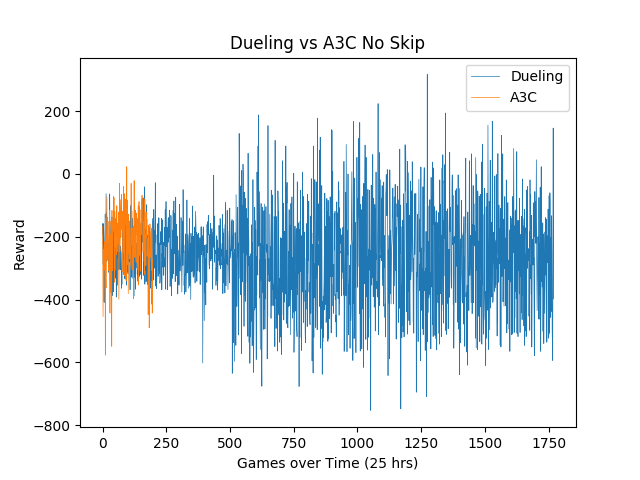
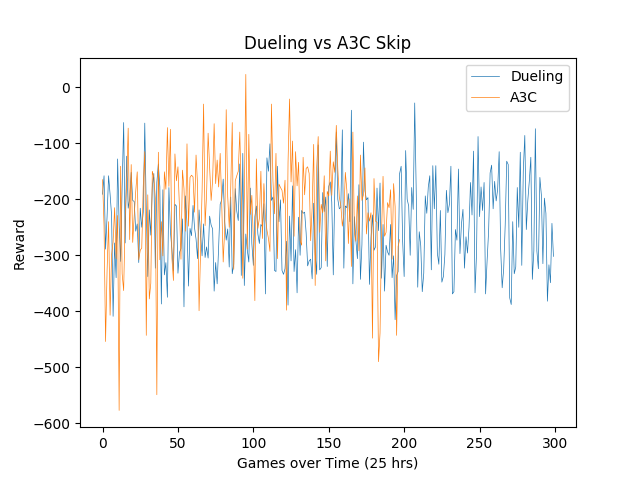
fixed graph titles

diff --git a/Street_Fighter_A3CNetwork/graphs.py b/Street_Fighter_A3CNetwork/graphs.py
@@ -4,23 +4,22 @@ import numpy as np
 
 #Global path variable names
 
-NOSKIP = "NoSkipNetwork"
-SKIP = "SkipNetwork"
+NOSKIP = "NoSkip"
+SKIP = "Skip"
 DEULING = "Dueling"
 
 def SvsNS():
-    paths = ["LSTM/", "NewRew/", "OldRew/"]
+    paths = ["NetworkLSTM/", "NetworkNewRew/", "NetworkOldRew/", "Dueling/"]
+    names = ["LSTM", "R2 Reward", "R1 Reward", "Dueling"]
+    i = 0
     for p in paths:
         #individual
         data_ns = pd.read_csv(NOSKIP+p+"data.csv")
         points_ns = data_ns.values
-        if p == paths[2]:
-            for i in range(len(points_ns)):
-                if points_ns[i] > 0:
-                    points_ns[i] += 176
+        
 
         plt.plot(points_ns, linewidth=.5)
-        plt.title(NOSKIP+p[:-1])
+        plt.title("No Skip "+names[i])
         plt.ylabel('Reward')
         plt.xlabel('Games over Time (25 hrs)')
         
@@ -30,29 +29,31 @@ def SvsNS():
 
         data_s = pd.read_csv(SKIP+p+"data.csv")
         points_s = data_s.values
-        if p == paths[2]:
-            for i in range(len(points_ns)):
-                if points_ns[i] > 0:
-                    points_ns[i] += 176
-                    
+        
+
         plt.plot(points_s, linewidth=.5)
-        plt.title(NOSKIP+p[:-1])
+        plt.title("Skip "+names[i])
         plt.ylabel('Reward')
         plt.xlabel('Games over Time (25 hrs)')
         
-        plt.savefig("Plots/"+SKIP+p[:-1]+"Graph")
+        plt.savefig("Plots/"+SKIP+p[7:-1]+"Graph")
         #plt.show()
         plt.clf()
 
+        if p == paths[3]:
+            points_s = points_s[0:len(points_ns)+150]
+            p = "Network" + p
         #both 
+        print(p[7:-1])
         plt.plot(points_s, linewidth=.5, label="Skip")
         plt.plot(points_ns, linewidth=.5, label="No Skip")
-        plt.title("Skip vs No Skip of"+p[:-1])
+        plt.title("Skip vs No Skip of "+p[7:-1])
         plt.ylabel('Reward')
         plt.xlabel('Games over Time (25 hrs)')
         plt.legend(loc="best")
-        plt.savefig("Plots/S_vs_NS"+p[:-1]+"Graph")
+        plt.savefig("Plots/S_vs_NS"+p[7:-1]+"Graph")
         plt.clf()
+        i += 1
 
 def LSTMvsFF():
     paths = ["LSTM/", "NewRew/"]
@@ -88,14 +89,14 @@ def duelvsa3c():
     plt.clf()
 
     data_d = pd.read_csv(DEULING+"Skip/data.csv")
-    points_d = data_d.values
+    points_d = data_d.values[0:300]
 
     data_a = pd.read_csv(SKIP+"OldRew/data.csv")
     points_a = data_a.values
 
     plt.plot(points_d, linewidth=.5, label="Dueling")
     plt.plot(points_a, linewidth=.5, label="A3C")
-    plt.title("Dueling vs A3C No Skip")
+    plt.title("Dueling vs A3C Skip")
     plt.ylabel('Reward')
     plt.xlabel('Games over Time (25 hrs)')
     plt.legend(loc="best")
@@ -103,8 +104,8 @@ def duelvsa3c():
     plt.clf()
 
 if __name__ == "__main__":
-    #SvsNS()
+    SvsNS()
     #LSTMvsFF()
-    duelvsa3c()
+    #duelvsa3c()
 
 
